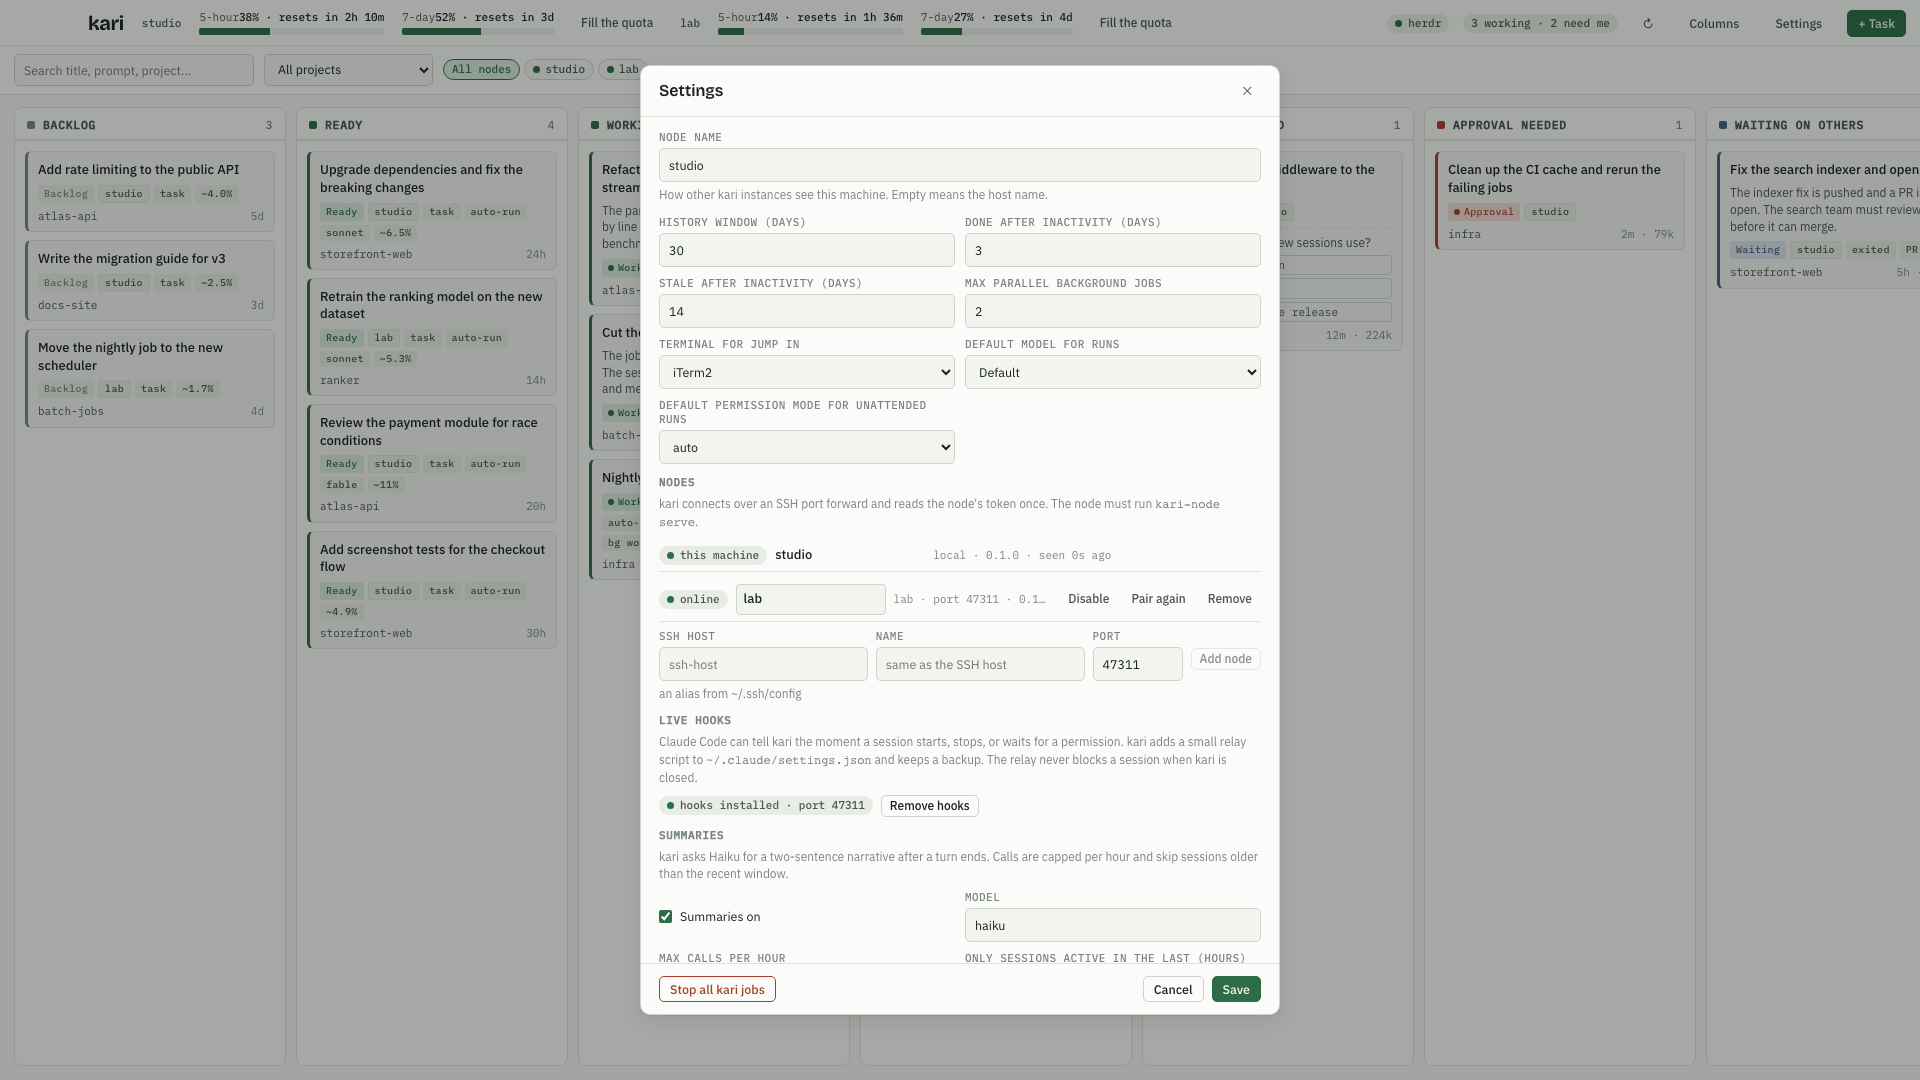
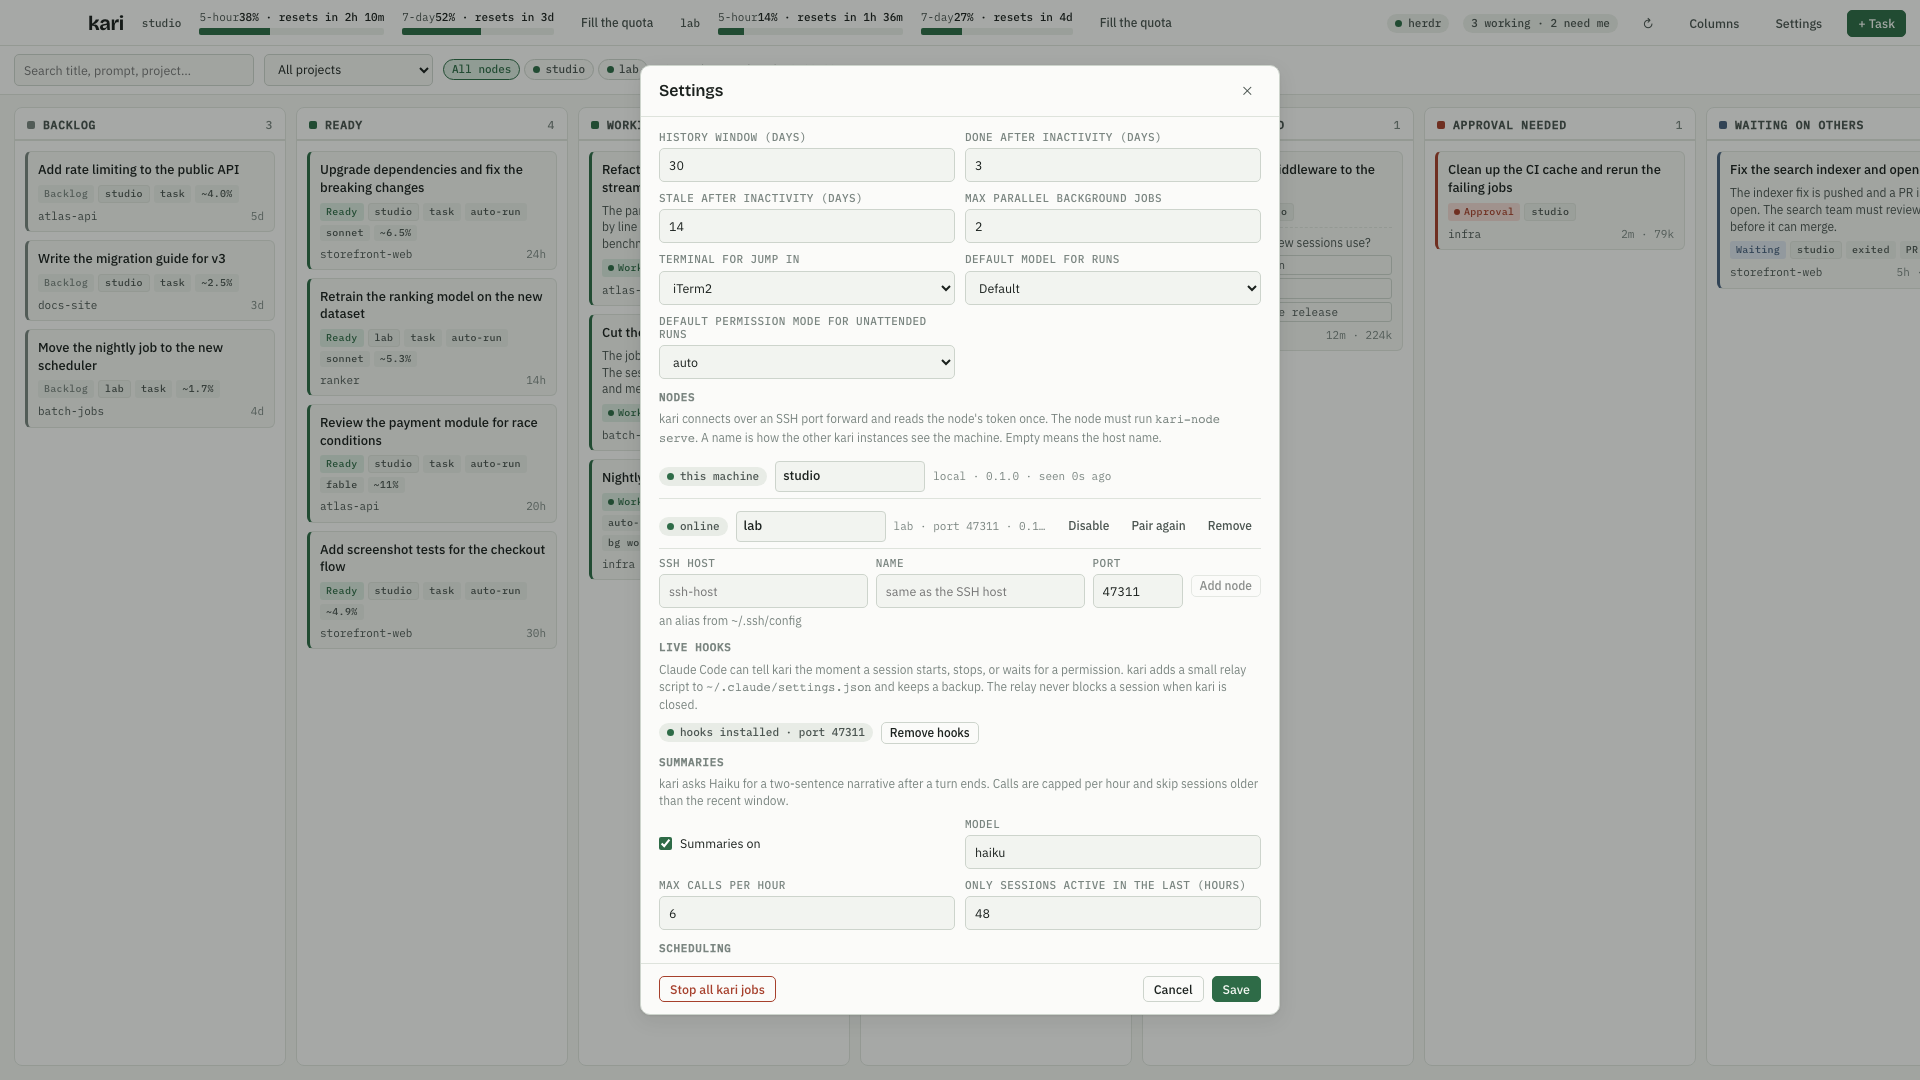
Rename this machine in the Nodes list
The name of the local node was a label in the Nodes list, and the only
control was a separate field at the top of Settings. A user who cannot
rename the machine itself, because a managed Mac holds the host name, found
no way to change it where the node is shown.

The local node now has the same name field as a remote node. It writes the
node name setting, so Save applies it. The field at the top is gone, so one
name has one control.

Changed region(s): [[0.3438, 0.1222, 0.6562, 0.8861], [0.5, 0.7639, 0.6562, 0.8861], [0.5625, 0.3667, 0.5938, 0.3972]]

diff --git a/src/components/Modals.tsx b/src/components/Modals.tsx
@@ -249,6 +249,8 @@ export function ColumnsModal({ columns, onClose, onSave, onReset }: { columns: C
 function NodeRow({
   node,
   busy,
+  localName,
+  onLocalName,
   onRename,
   onToggle,
   onPair,
@@ -256,6 +258,8 @@ function NodeRow({
 }: {
   node: NodeStatus;
   busy: boolean;
+  localName: string;
+  onLocalName: (name: string) => void;
   onRename: (name: string) => void;
   onToggle: () => void;
   onPair: () => void;
@@ -274,7 +278,13 @@ function NodeRow({
         {local ? "this machine" : node.enabled ? (node.online ? "online" : "offline") : "off"}
       </span>
       {local ? (
-        <span className="nodename">{node.name}</span>
+        <input
+          className="nodename"
+          value={localName}
+          placeholder="the host name"
+          aria-label="Name of this machine"
+          onChange={(e) => onLocalName(e.target.value)}
+        />
       ) : (
         <input
           className="nodename"
@@ -326,7 +336,17 @@ function NodeRow({
   );
 }
 
-function NodesSection({ nodes, onNodesChanged }: { nodes: NodeStatus[]; onNodesChanged: () => void }) {
+function NodesSection({
+  nodes,
+  onNodesChanged,
+  localName,
+  onLocalName,
+}: {
+  nodes: NodeStatus[];
+  onNodesChanged: () => void;
+  localName: string;
+  onLocalName: (name: string) => void;
+}) {
   const [busy, setBusy] = useState(false);
   const [err, setErr] = useState<string | null>(null);
   const [host, setHost] = useState("");
@@ -358,7 +378,8 @@ function NodesSection({ nodes, onNodesChanged }: { nodes: NodeStatus[]; onNodesC
     <div className="section">
       <h5>Nodes</h5>
       <div className="hint">
-        kari connects over an SSH port forward and reads the node's token once. The node must run <code>kari-node serve</code>.
+        kari connects over an SSH port forward and reads the node's token once. The node must run <code>kari-node serve</code>. A name is how the other kari
+        instances see the machine. Empty means the host name.
       </div>
       <div className="nodelist">
         {nodes.map((n) => (
@@ -366,6 +387,8 @@ function NodesSection({ nodes, onNodesChanged }: { nodes: NodeStatus[]; onNodesC
             key={n.id}
             node={n}
             busy={busy}
+            localName={localName}
+            onLocalName={onLocalName}
             onRename={(newName) => change(() => api.updateNode(n.id, { name: newName }))}
             onToggle={() => change(() => api.updateNode(n.id, { enabled: !n.enabled }))}
             onPair={() => change(() => api.pairNode(n.id))}
@@ -442,11 +465,6 @@ export function SettingsModal({
         </>
       }
     >
-      <div className="field">
-        <label>Node name</label>
-        <input value={s.node_name ?? ""} onChange={(e) => setS({ ...s, node_name: e.target.value })} />
-        <div className="hint">How other kari instances see this machine. Empty means the host name.</div>
-      </div>
       <div className="grid2">
         <div className="field">
           <label>History window (days)</label>
@@ -493,7 +511,7 @@ export function SettingsModal({
           </select>
         </div>
       </div>
-      <NodesSection nodes={nodes} onNodesChanged={onNodesChanged} />
+      <NodesSection nodes={nodes} onNodesChanged={onNodesChanged} localName={s.node_name ?? ""} onLocalName={(name) => setS({ ...s, node_name: name })} />
       <div className="section">
         <h5>Live hooks</h5>
         <div className="hint">
